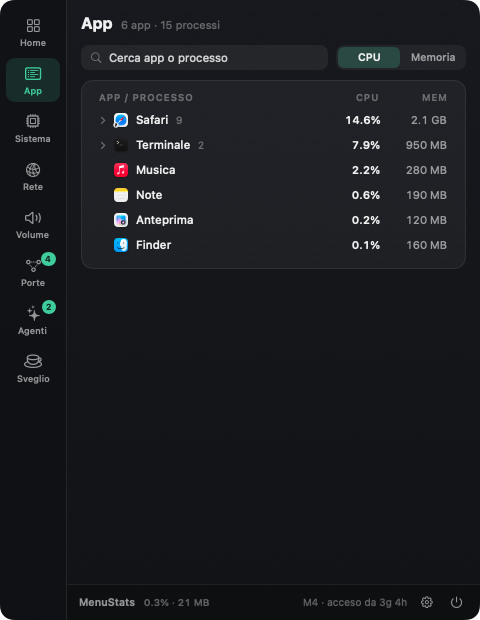
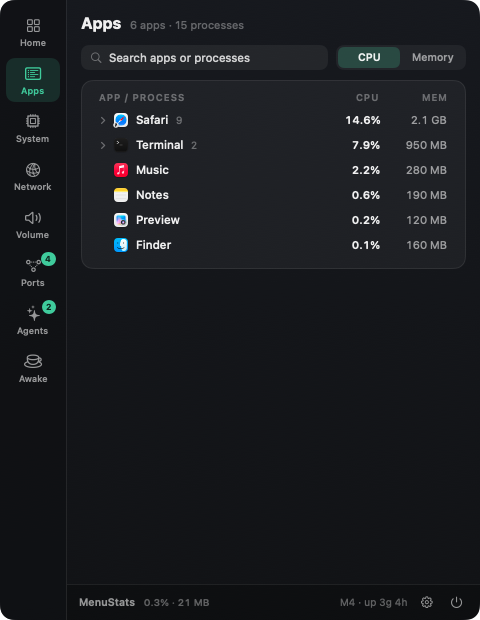
v0.2: README for all new features, English screenshots and demos, themes gallery

diff --git a/Sources/Screenshots.swift b/Sources/Screenshots.swift
@@ -17,6 +17,13 @@ enum Screenshots {
             Nav.shared.tab = tab
             save(PopoverView(), size: CGSize(width: 480, height: 620), to: out.appendingPathComponent("tab-\(tab).png"), rounded: 14)
         }
+        let current = Prefs.shared.c.theme
+        for t in [ThemeChoice.graphite, .midnight, .paper, .contrast] {
+            Prefs.shared.c.theme = t
+            Nav.shared.tab = "home"
+            save(PopoverView(), size: CGSize(width: 480, height: 620), to: out.appendingPathComponent("theme-\(t.rawValue).png"), rounded: 14)
+        }
+        Prefs.shared.c.theme = current
         save(LooksSheet(), size: CGSize(width: 560, height: CGFloat(MenuLook.allCases.count) * 46 + 16), to: out.appendingPathComponent("looks.png"), rounded: 12)
         save(SettingsView(), size: CGSize(width: 640, height: 600), to: out.appendingPathComponent("settings.png"), rounded: 12)
         save(AppLogo(size: 256).padding(0), size: CGSize(width: 256, height: 256), to: out.appendingPathComponent("logo.png"), rounded: 0, opaque: false)
@@ -107,6 +114,12 @@ enum Screenshots {
             AgentSession(pid: 702, kind: "Codex", cwd: NSHomeDirectory() + "/code/shop-backend", startedAt: Date().addingTimeInterval(-1_300),
                          cpu: 0.3, memory: 210 << 20, children: 2, ports: [4000], terminal: "Ghostty"),
         ]
+        var info = ClaudeSessionInfo(file: "")
+        info.model = "claude-opus-5-5"
+        info.inputTokens = 18_400; info.outputTokens = 212_000; info.cacheReadTokens = 9_800_000; info.cacheWriteTokens = 640_000
+        info.lastText = L("Fatto: la pagina di checkout ora controlla il CAP e i test passano. Apro una pull request?")
+        info.lastActivity = Date()
+        m.agents[0].claude = info
         m.containers = [Container(id: "a1", name: "postgres", image: "postgres:17", status: "Up 3 hours", running: true, ports: "", hostPorts: [5432]),
                         Container(id: "a2", name: "redis", image: "redis:7-alpine", status: "Exited", running: false, ports: "", hostPorts: [])]
         m.traffic = [AppTraffic(name: "Safari", down: 1_420_000, up: 41_000), AppTraffic(name: L("Musica"), down: 320_000, up: 6_000),
@@ -214,6 +227,7 @@ extension Screenshots {
         Prefs.persist = false
         Monitor.demoMode = true
         let m = Monitor.shared
+        applyArgs()
         fillDemo(m)
         var t = 0
         func scene(_ name: String) -> URL {

diff --git a/Sources/Strings.swift b/Sources/Strings.swift
@@ -225,4 +225,5 @@ private let english: [String: String] = [
     "Salva le impostazioni in un file o caricale su un altro Mac.": "Save your settings to a file or load them on another Mac.",
     "Esporta…": "Export…",
     "Importa…": "Import…",
+    "Fatto: la pagina di checkout ora controlla il CAP e i test passano. Apro una pull request?": "Done: the checkout page now validates the postcode and the tests pass. Shall I open a pull request?",
 ]

diff --git a/README.md b/README.md
@@ -11,31 +11,55 @@ Resources, apps, ports, AI agents, per-app volume and keep-awake in one panel.</
 
 | | |
 |---|---|
-| ![System](docs/tab-system.png) | **System** — CPU per core (user/system), memory breakdown and pressure, swap, GPU, disk, battery, thermal state. Chip/SSD temperatures, fan speed and power draw (experimental). |
-| ![Apps](docs/tab-apps.png) | **Apps** — one row per app: helpers, renderers and XPC services roll up into the app that owns them. Expand to see every process, inspect its code signature (signer, Team ID, hardened runtime, sandbox, Rosetta), and restart, quit or force-quit an app. |
-| ![Ports](docs/tab-ports.png) | **Ports** — every listening port with what it serves (`next dev`, `vite`…), the project folder, who started it (Claude Code, Codex, Terminal, Docker), local-only vs network, and **orphaned dev servers**. Docker containers with their port mappings. |
-| ![Agents](docs/tab-agents.png) | **AI agents** — running sessions of Claude Code, Codex, Gemini CLI, Aider, OpenCode, Cursor Agent, Amp and Goose: project, terminal, uptime, CPU/memory of the whole process tree, open ports, busy or waiting. |
+| ![System](docs/tab-system.png) | **System** — CPU per core (user/system), memory breakdown and pressure, swap, GPU, disk, battery, thermal state, with **live, 1-hour and 24-hour history** (saved across restarts). Chip/SSD temperatures, fan speed and power draw (experimental). Battery of Bluetooth peripherals (Apple mice/keyboards, AirPods). |
+| ![Apps](docs/tab-apps.png) | **Apps** — one row per app: helpers, renderers and XPC services roll up into the app that owns them. Expand to see every process, inspect its code signature (signer, Team ID, hardened runtime, sandbox, Rosetta), and **restart**, quit or force-quit an app — or let MenuStats **restart it automatically** when it goes over a memory limit. |
+| ![Ports](docs/tab-ports.png) | **Ports** — every listening port with what it serves (`next dev`, `vite`…), the project folder, who started it (Claude Code, Codex, Terminal, Docker), local-only vs network, and **orphaned dev servers**. Open or copy the URL, stop the process. Docker containers with their port mappings. |
+| ![Agents](docs/tab-agents.png) | **AI agents** — running sessions of Claude Code, Codex, Gemini CLI, Aider, OpenCode, Cursor Agent, Amp and Goose: project, terminal, uptime, CPU/memory of the whole process tree, open ports, busy or waiting. For Claude Code also the **model, token usage and last message**, read from its local logs. |
+| ![Network](docs/tab-network.png) | **Network** — live download/upload, 1 h / 24 h history, **data used today and this month**, traffic per app, Wi-Fi signal and link speed, active VPN (e.g. Tailscale), and a **speed test** using Apple's built-in `networkQuality`. |
 | ![Volume](docs/volume.webp) | **Volume** — output/input device pickers, master volume, *"microphone in use by…"*, and an **experimental per-app volume** (0–150 %, remembered per app, no audio driver). |
-| ![Keep awake](docs/tab-awake.png) | **Keep awake** — stop the Mac from sleeping for 15 min, 1–4 h or indefinitely (system only, or display too), and see which apps are currently preventing sleep. |
-| ![Network](docs/tab-network.png) | **Network** — live download/upload with history, traffic per app, interfaces and IP. |
+| ![Keep awake](docs/tab-awake.png) | **Keep awake** — stop the Mac from sleeping for 15 min, 1–4 h or indefinitely, or **automatically** while an AI agent is working, a dev server is running or the Mac is on power. See which apps are preventing sleep. |
 
 <p align="center"><img src="docs/overview.webp" width="420" alt="Overview with live charts"></p>
 
-The **Overview** also raises a *"Needs attention"* card for memory pressure, a nearly full disk, thermal throttling, apps hogging the CPU and orphaned dev servers — each with a one-click fix.
+The **Overview** raises a *"Needs attention"* card for memory pressure, a nearly full disk, thermal throttling, apps hogging the CPU and orphaned dev servers — each with a one-click fix.
+
+### Notifications
+
+Get a notification when **an AI agent finishes or is waiting for you**, a **dev server stops** on its own, an app is **restarted automatically**, the disk is almost full, memory is under pressure or the Mac is very hot. Each type can be turned off; clicking a notification opens the right tab.
 
 ### Your menu bar, your way
 
 <p><img src="docs/menubar.webp" width="560" alt="Menu bar looks"></p>
 
-Pick which items to show and in what order (CPU, memory, network, GPU, temperature, power, disk, battery, ports, AI agents), six looks, value colours (menu bar, accent, or green→red by load), system/rounded/monospaced digits and an accent colour.
+- **Items:** CPU, memory, network, GPU, temperature, power, disk used or free, battery, ports, AI agents, time and date, public IP, ping, uptime, plus *keep-awake* and *microphone* indicators that only appear when active.
+- **One item or many:** show everything in one item, or one item per entry — clicking each opens the panel on the matching tab (⌘-drag to reorder).
+- **Ten looks:** stacked, compact, graph, columns, ring, bar, gauge, pill, outline, icons.
+- **Colours and labels:** values in the menu bar colour, your accent, or green → red by load with your own thresholds; custom or hidden labels; system, rounded or monospaced digits.
+- **Minimal mode:** just an icon that turns yellow or red when something needs attention.
+
+### Themes
+
+| Graphite | Midnight | Paper | High contrast |
+|---|---|---|---|
+| ![Graphite](docs/theme-graphite.png) | ![Midnight](docs/theme-midnight.png) | ![Paper](docs/theme-paper.png) | ![High contrast](docs/theme-contrast.png) |
+
+*Automatic* follows the macOS light/dark appearance. Also: seven accent colours or any colour you like, colours by area (CPU, memory, network…), compact/normal/large text, opaque or translucent panel.
 
 <p><img src="docs/settings.png" width="560" alt="Settings"></p>
 
-Global shortcut **⌥⌘M** opens the panel (no Accessibility permission needed). Right-click the menu bar item for a quick menu.
+**English and Italian** (follows the system language, or pick one). Shortcuts: **⌥⌘M** opens the panel, **⌥⌘1…8** jump to a tab — no Accessibility permission needed. Settings can be exported to a file and imported on another Mac. Right-click the menu bar item for a quick menu.
 
 ## Install
 
-### Option 1 — Download the app
+### Option 1 — Homebrew
+
+```sh
+brew install --cask --no-quarantine mdrzn/tap/menustats
+```
+
+`--no-quarantine` skips the first-launch Gatekeeper block described below (MenuStats isn't notarized). Without it, Homebrew installs the app normally and you allow it once as in Option 2.
+
+### Option 2 — Download the app
 
 1. Download `MenuStats.zip` from the [latest release](https://github.com/mdrzn/menustats/releases/latest) and unzip it.
 2. Move `MenuStats.app` to your **Applications** folder and open it. The icon appears in the menu bar.
@@ -44,7 +68,7 @@ Apple Silicon and Intel, macOS 14.2 or later.
 
 #### "MenuStats cannot be opened" — allowing it anyway
 
-MenuStats is free and open source, but not notarized by Apple (that requires a paid developer account), so **Gatekeeper** blocks it the first time. The app is not broken or harmful — you can read and build the source yourself (Option 2).
+MenuStats is free and open source, but not notarized by Apple (that requires a paid developer account), so **Gatekeeper** blocks it the first time. The app is not broken or harmful — you can read and build the source yourself (Option 3).
 
 1. Double-click `MenuStats.app`. When the warning appears, click **Done** (not "Move to Trash").
 2. Open **System Settings → Privacy & Security**.
@@ -53,7 +77,7 @@ MenuStats is free and open source, but not notarized by Apple (that requires a p
 
 Only needed once. Or, from Terminal: `xattr -dr com.apple.quarantine /Applications/MenuStats.app`
 
-### Option 2 — Build it yourself
+### Option 3 — Build it yourself
 
 Needs macOS 14.2+ and the Xcode Command Line Tools (`xcode-select --install`), no Xcode project. A locally built app isn't blocked by Gatekeeper.
 
@@ -64,20 +88,33 @@ cd menustats
 open MenuStats.app
 ```
 
-`./build.sh --universal` builds an Apple Silicon + Intel app and `MenuStats.zip`. `./make-screenshots.sh` and `./make-demos.sh` regenerate the images and animations above with demo data (the latter needs `img2webp`: `brew install webp`).
+- `./build.sh --universal` builds an Apple Silicon + Intel app and `MenuStats.zip`.
+- `./make-screenshots.sh` and `./make-demos.sh` regenerate the images and animations above with demo data (`make-demos.sh` needs `img2webp`: `brew install webp`).
+- `./make-icon.sh` regenerates the app icon.
+
+MenuStats checks GitHub once a day for a newer release and shows a banner in the panel footer (can be turned off).
 
 ## Experimental features — please read
 
 - **Sensors (temperatures, fans, power)** use private macOS interfaces (IOHIDEventSystem and the SMC), like other open-source monitors do. They are read-only, but a macOS update may break them; MenuStats then simply hides the values.
-- **Per-app volume** is **off by default**. macOS has no per-app volume, so MenuStats uses Core Audio *process taps* (macOS 14.2+): the app's sound is captured, muted at the source and played back at the volume you choose. This requires the **System Audio Recording** permission. Audio is never recorded or saved, and it adds a small extra latency — fine for music and video, possibly noticeable in calls. Quitting MenuStats gives the sound back to the apps.
+- **Per-app volume** is **off by default**. macOS has no per-app volume, so MenuStats uses Core Audio *process taps* (macOS 14.2+): the app's sound is captured, muted at the source and played back at the volume you choose. This requires the **System Audio Recording** permission. Audio is never recorded or saved. Quitting MenuStats gives the sound back to the apps.
+- **Wi-Fi network name:** macOS only reveals it to apps with Location permission, so MenuStats shows signal and speed but usually not the name.
 
 ## Privacy
 
-Everything is computed locally. MenuStats makes no network requests, has no analytics and no account. Port and process information comes from `lsof`, `nettop` and `libproc`; Docker data from your own `docker` CLI if installed.
+Everything is computed locally: no analytics, no account. Port and process information comes from `lsof`, `nettop` and `libproc`; Docker data from your own `docker` CLI if installed; Claude Code details from its logs in `~/.claude/projects`, read-only.
+
+MenuStats only contacts the Internet for things you can see and switch off:
+
+| What | Where | When |
+|---|---|---|
+| Update check | `api.github.com` | once a day; *Settings → General* |
+| Public IP | `api.ipify.org` | only if you add the *Public IP* item |
+| Ping | the host you choose (default `1.1.1.1`) | only if you add the *Ping* item |
+| Speed test | Apple's servers via `networkQuality` | only when you click *Run test* |
 
 ## Notes
 
-- The interface is currently in Italian.
 - Inspired by the idea behind [Stat Space](https://statspace.app/), a commercial menu bar monitor. MenuStats is an independent, from-scratch open-source project and shares no code or assets with it.
 
 ## Credits
